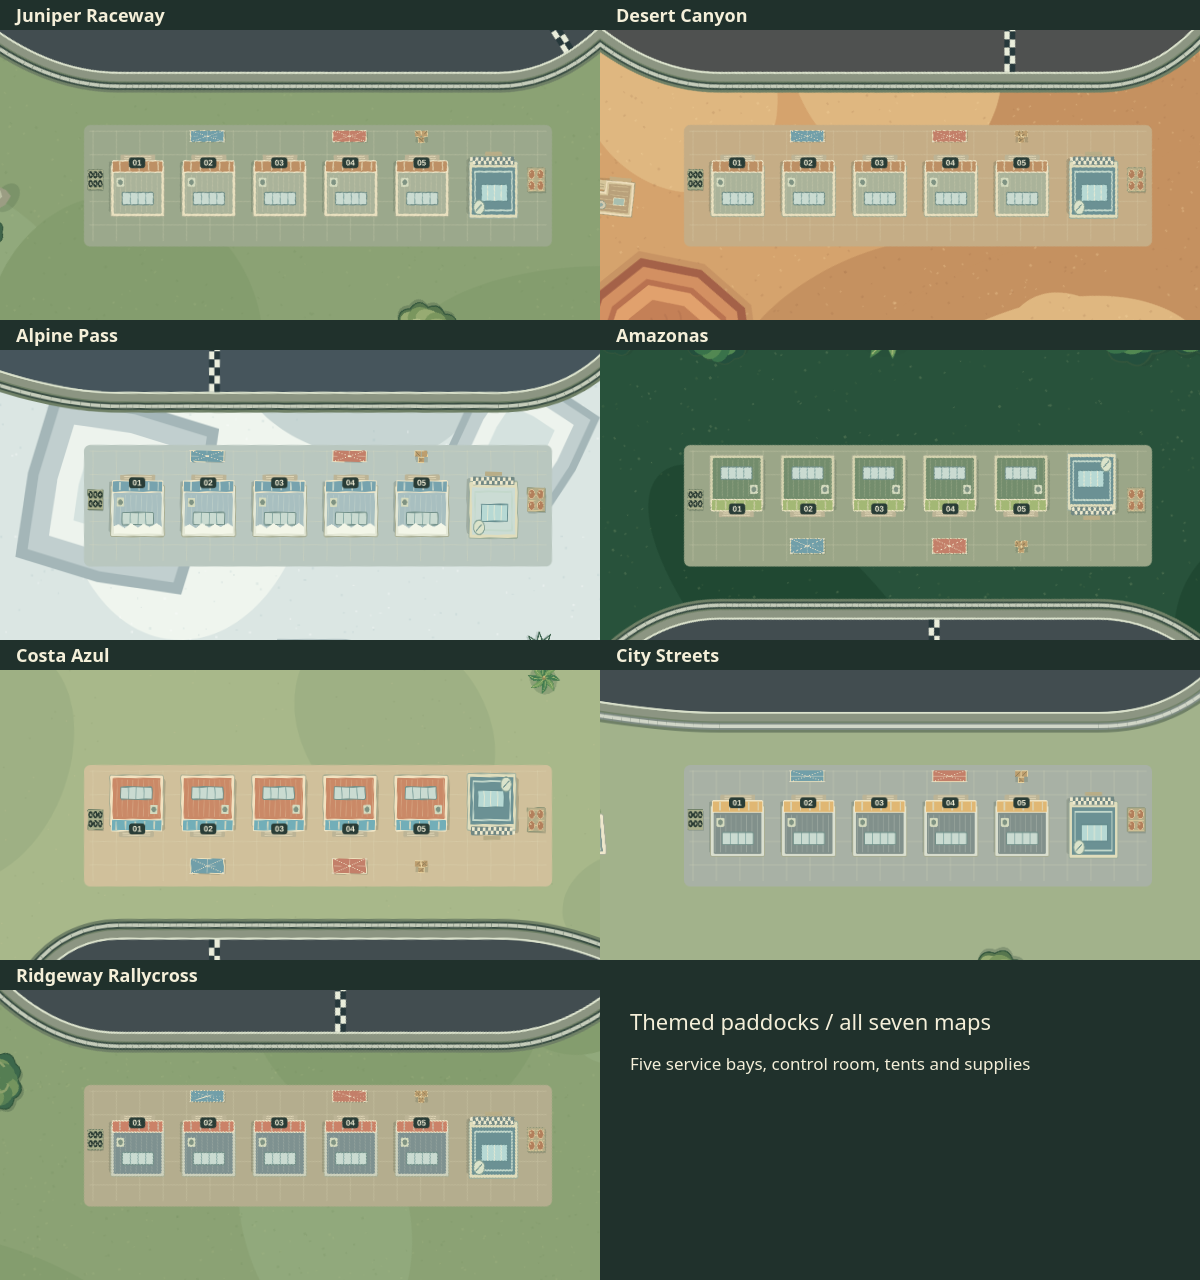
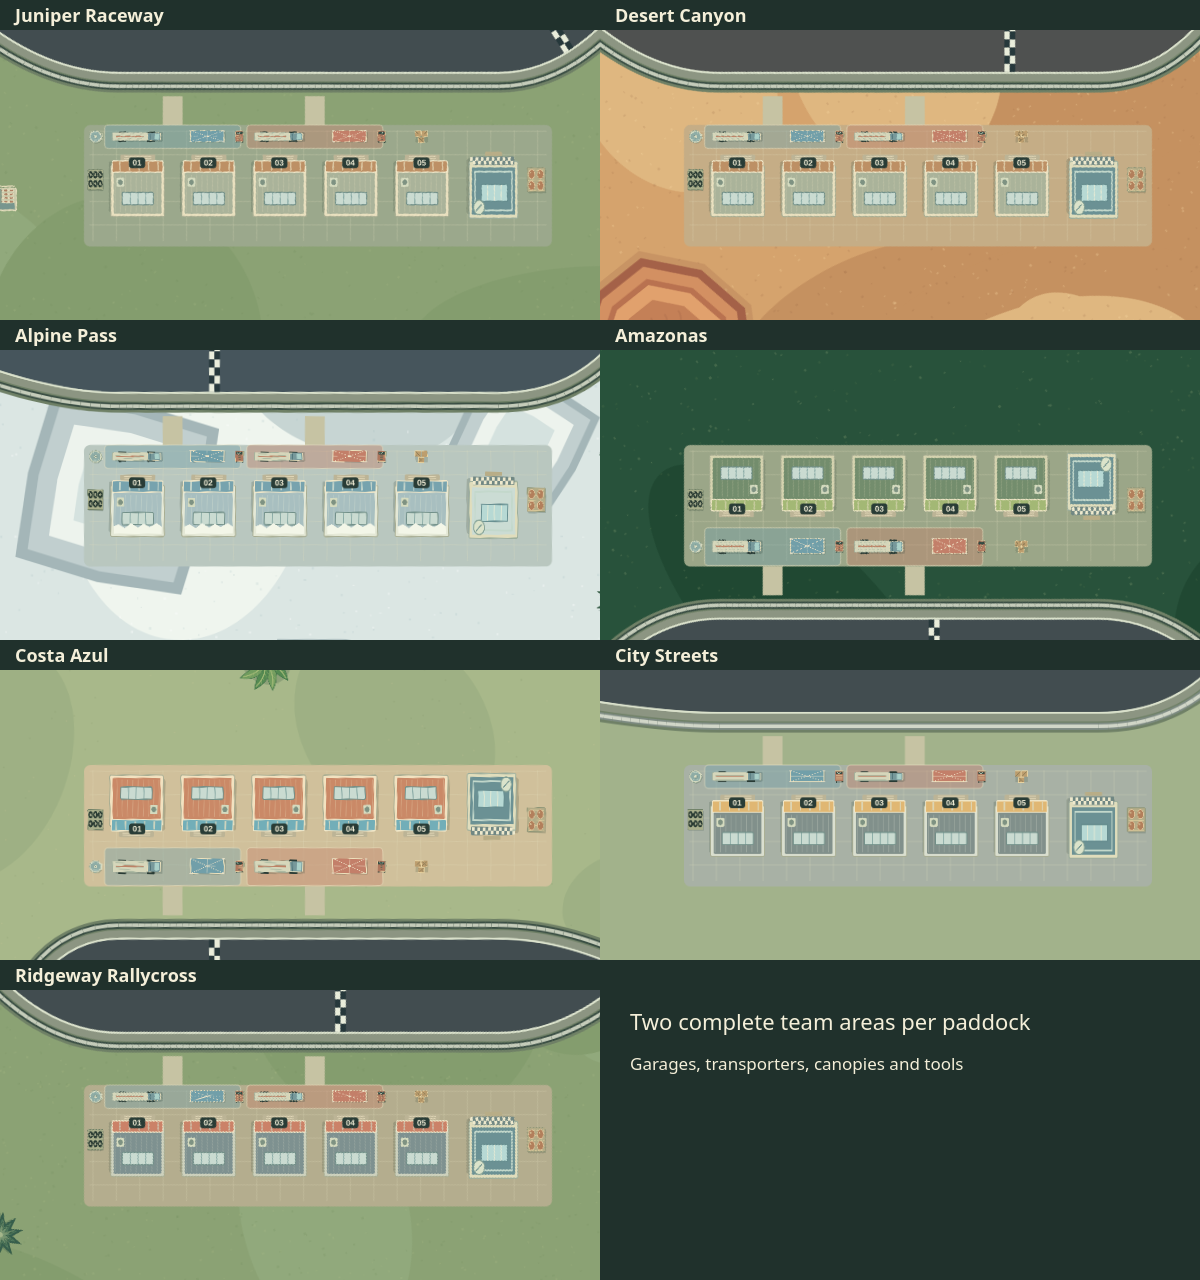
add(scenery): connect buildings and group paddock teams

diff --git a/main.js b/main.js
@@ -443,17 +443,27 @@ function drawSceneryAsset(c,key,x,y,w,h,angle=0){
 }
 function paddockAssetLayout(){
   const theme={juniper:'cream',canyon:'cream',alpine:'alpine',amazonas:'jungle',coast:'coastal',city:'city',rallycross:'industrial'}[activeMap.id],front=paddock.side===1?-1:1,y=front<0?18:-5,angle=front<0?Math.PI:0,props=[];
-  for(let i=0;i<5;i++)props.push({key:'garage-'+theme,x:-181+i*79,y,w:68,h:80,angle,bay:i+1});
+  for(let i=0;i<5;i++)props.push({key:'garage-'+theme,x:-181+i*79,y,w:68,h:80,angle,bay:i+1,team:i<2?'blue':i<4?'red':null});
   props.push({key:activeMap.id==='alpine'?'control-room-snow':'control-room',x:214,y,w:64,h:86,angle});
   props.push({key:'tyre-rack',x:-227,y:12,w:20,h:32,angle:0},{key:'fuel-store',x:263,y:12,w:24,h:36,angle:0});
   const forecourt=front<0?-37:63;
-  props.push({key:'service-tent-blue',x:-102,y:forecourt,w:44,h:front<0?18:24,angle:0},{key:'service-tent-red',x:56,y:forecourt,w:44,h:front<0?18:24,angle:0},{key:'wood-crates',x:135,y:forecourt,w:17,h:17,angle:0},{key:'tool-trolley',x:-23,y:forecourt,w:17,h:20,angle:0},{key:'water-tank',x:-227,y:forecourt,w:18,h:18,angle:0});
+  for(const [team,x,tent]of [['blue',-181,-102],['red',-23,56]]){
+    props.push({key:'service-transporter',x,y:forecourt,w:64,h:front<0?20:28,angle:0,team},{key:'service-tent-'+team,x:tent,y:forecourt,w:44,h:front<0?18:24,angle:0,team},{key:'tool-trolley',x:tent+35,y:forecourt,w:14,h:18,angle:0,team});
+  }
+  props.push({key:'wood-crates',x:135,y:forecourt,w:17,h:17,angle:0},{key:'water-tank',x:-227,y:forecourt,w:18,h:18,angle:0});
   return props;
+}
+function paddockTeamLayout(){
+  const front=paddock.side===1?-37:63;
+  return [{id:'blue',x:-141.5,y:front,w:151,h:paddock.side===1?26:42,color:'#719fa9'},{id:'red',x:16.5,y:front,w:151,h:paddock.side===1?26:42,color:'#c37f69'}];
 }
 function paintPaddock(c){
   const theme={juniper:'#9ba88c',canyon:'#c5ad86',alpine:'#b9c7bf',amazonas:'#9ba688',coast:'#d0c09b',city:'#a8b1a5',rallycross:'#b4ad8e'}[activeMap.id];
-  c.save();c.translate(paddock.x,paddock.y);c.rotate(Math.atan2(paddock.ty,paddock.tx));c.fillStyle=theme;roundedRect(c,-240,-50,520,135,7);c.fill();
+  c.save();c.translate(paddock.x,paddock.y);c.rotate(Math.atan2(paddock.ty,paddock.tx));
+  for(const team of paddockTeamLayout()){c.strokeStyle='#c6c3a3';c.lineWidth=22;c.lineCap='butt';c.beginPath();c.moveTo(team.x,team.y);c.lineTo(team.x,paddock.side===1?-82:117);c.stroke();}
+  c.fillStyle=theme;roundedRect(c,-240,-50,520,135,7);c.fill();
   c.strokeStyle='#e8e3c03d';c.lineWidth=1;for(let x=-230;x<275;x+=26){c.beginPath();c.moveTo(x,-44);c.lineTo(x,79);c.stroke();}for(let y=-43;y<80;y+=26){c.beginPath();c.moveTo(-234,y);c.lineTo(274,y);c.stroke();}
+  for(const team of paddockTeamLayout()){c.fillStyle=team.color+'66';roundedRect(c,team.x-team.w/2,team.y-team.h/2,team.w,team.h,4);c.fill();c.strokeStyle='#eee5c48c';c.lineWidth=1;c.stroke();}
   for(const prop of paddockAssetLayout()){
     if(!drawSceneryAsset(c,prop.key,prop.x,prop.y,prop.w,prop.h,prop.angle)){c.fillStyle='#d1c9a9';roundedRect(c,prop.x-prop.w/2,prop.y-prop.h/2,prop.w,prop.h,3);c.fill();c.strokeStyle='#8fa38c';c.lineWidth=2;c.stroke();}
     if(prop.bay){const labelY=prop.y+(paddock.side===1?-26:26);c.fillStyle='#293c36';roundedRect(c,prop.x-9,labelY-6,18,12,3);c.fill();c.fillStyle='#f3efd8';c.font='bold 9px Arial';c.textAlign='center';c.fillText(String(prop.bay).padStart(2,'0'),prop.x,labelY+3);}
@@ -961,10 +971,11 @@ function drawCoastWaves(c){
 // Place large sites first, then details, then trees. Every object reserves its
 // complete rotated sprite footprint, including the shadow, before anything draws.
 const SCENERY_LAYERS={ground:0,props:1,structures:2,canopy:3};
-const sceneryDetails=[],sceneryBuildings=[],sceneryTrees=[],sceneryScene=[];
+const sceneryDetails=[],sceneryBuildings=[],sceneryTrees=[],sceneryScene=[],sceneryAccess=[];
 function reserveScenery(prop,target){
   if(!sceneryClear(prop.x,prop.y,prop.radius))return false;
   if(sceneryScene.some(other=>(prop.x-other.x)**2+(prop.y-other.y)**2<(prop.radius+other.radius+8)**2))return false;
+  if(sceneryAccess.some(access=>sceneryAccessDistance(access,prop.x,prop.y)<prop.radius+access.width/2+8))return false;
   target.push(prop);sceneryScene.push(prop);return true;
 }
 function cityParkClear(x,y,radius){
@@ -975,10 +986,10 @@ function cityParkClear(x,y,radius){
   if(Math.hypot(dx,y-Math.max(120,Math.min(660,y)))<radius+12)return false;
   return Math.hypot(x-190,y-775)>radius+95;
 }
-function sceneryClear(x,y,radius){
-  const n=nearest(x,y);if(n.distance<widthAt('wall',n.progress)+radius+24||withinPitDistance(x,y,pitLane.wall+radius+24))return false;
+function sceneryClear(x,y,radius,margin=24){
+  const n=nearest(x,y);if(n.distance<widthAt('wall',n.progress)+radius+margin||withinPitDistance(x,y,pitLane.wall+radius+margin))return false;
   const dx=x-paddock.x,dy=y-paddock.y,px=dx*paddock.tx+dy*paddock.ty,py=-dx*paddock.ty+dy*paddock.tx;
-  if(px>-265-radius&&px<305+radius&&py>-75-radius&&py<125+radius)return false;
+  if(px>-265-radius&&px<305+radius&&py>-100-radius&&py<150+radius)return false;
   if(activeMap.id==='amazonas'){const m=monkeyPosition();if(amazonRiverDistance(x,y)<125+radius||Math.hypot(x-m.x,y-(m.y-20))<100+radius)return false;}
   if(activeMap.id==='city'&&!cityParkClear(x,y,radius))return false;
   if(activeMap.id==='coast'&&(coastLandDistance(x,y)<90+radius||Math.hypot(x-coast.lighthouse.x,y-coast.lighthouse.y)<130+radius))return false;
@@ -1011,7 +1022,7 @@ function sceneryDetailLayer(kind){
   return SCENERY_LAYERS.props;
 }
 function buildSceneryDetails(){
-  sceneryDetails.length=0;sceneryBuildings.length=0;sceneryTrees.length=0;sceneryScene.length=0;
+  sceneryDetails.length=0;sceneryBuildings.length=0;sceneryTrees.length=0;sceneryScene.length=0;sceneryAccess.length=0;
   buildSceneryBuildings();
   const rand=seededRandom(5600+Object.keys(MAPS).indexOf(activeMap.id)*271),kinds={juniper:['rock-moss','log','fern','flowers','cabin','picnic','shed-garden','greenhouse','spectator-stand'],canyon:['rock','cactus','drygrass','hut','water-tank','service-transporter'],alpine:['rock','pine','snowdrift','cabin','shed-garden','spectator-stand'],amazonas:['fern','flowers','log','rock-moss','hut','picnic'],rallycross:['tires','canopy','service-transporter','rock','tool-trolley','spectator-stand'],coast:['umbrella','flowers','rock','villa','bench','cafe-terrace','garden-bed'],city:['citybuilding','streetlamp','parking','flowers','bench','garden-bed','greenhouse','cafe-terrace']}[activeMap.id];
   for(let i=0;i<360;i++){
@@ -1021,12 +1032,73 @@ function buildSceneryDetails(){
     if(activeMap.id==='city'&&['citybuilding','greenhouse','cafe-terrace'].includes(kind)&&x>-400-radius&&x<780+radius&&y>-110-radius&&y<870+radius)continue;
     reserveScenery({type:'detail',x,y,size,radius,angle,kind,seed,layer},sceneryDetails);
   }
+  buildSceneryAccess();
   buildSceneryTrees();
   sceneryScene.sort((a,b)=>a.layer-b.layer||a.y-b.y||a.x-b.x);
 }
+function sceneryAccessDistance(access,x,y){
+  let distance=Infinity;
+  for(let i=1;i<access.points.length;i++){
+    const a=access.points[i-1],b=access.points[i],dx=b.x-a.x,dy=b.y-a.y,len2=dx*dx+dy*dy,t=len2?clamp(((x-a.x)*dx+(y-a.y)*dy)/len2,0,1):0;
+    distance=Math.min(distance,Math.hypot(x-a.x-dx*t,y-a.y-dy*t));
+  }
+  return distance;
+}
+function sceneryEntrance(site){
+  if(site.type==='building'){
+    if(site.kind==='home')return {x:site.x-18,y:site.y-18,w:site.w+12,h:site.h+12,angle:0};
+    return {x:site.x,y:site.y,w:site.w+(site.kind==='coast'?8:12),h:site.h+(site.kind==='coast'?8:12),angle:site.angle};
+  }
+  if(!['cabin','hut','villa','citybuilding','greenhouse','shed-garden','cafe-terrace'].includes(site.kind))return null;
+  const w=site.kind==='villa'?site.size*1.2+8:site.kind==='citybuilding'?site.size*1.5+12:site.size*1.6,h=site.kind==='villa'?site.size*.9+8:site.kind==='citybuilding'?site.size*1.2+12:site.size*1.4;
+  return {x:site.x,y:site.y,w,h,angle:site.angle};
+}
+function buildSceneryAccess(){
+  const gardenTrees=sceneryBuildings.filter(site=>site.kind==='home').map(site=>({x:site.x+60,y:site.y+55,radius:36*.85}));
+  for(const owner of [...sceneryBuildings,...sceneryDetails]){
+    const entrance=sceneryEntrance(owner);if(!entrance)continue;
+    const width=activeMap.id==='city'&&owner.kind==='home'?18:owner.kind==='office'?22:10,half=width/2,angle=entrance.angle,cos=Math.cos(angle),sin=Math.sin(angle);
+    const world=(x,y)=>({x:entrance.x+cos*x-sin*y,y:entrance.y+sin*x+cos*y}),local=p=>({x:(p.x-entrance.x)*cos+(p.y-entrance.y)*sin,y:-(p.x-entrance.x)*sin+(p.y-entrance.y)*cos});
+    const n=nearest(owner.x,owner.y),start=track[n.i],next=track[(n.i+1)%track.length],s=start.s+n.t*Math.hypot(next.x-start.x,next.y-start.y);
+    let connected=false;
+    for(const offset of [0,70,-70,140,-140]){
+      if(connected)break;
+      const p=pointOnTrack(s+offset),distance=widthAt('wall',p.progress)+half+10,end={x:p.x-p.ty*n.side*distance,y:p.y+p.tx*n.side*distance},target=local(end),front=entrance.h/2+16;
+      if(Math.hypot(end.x-entrance.x,end.y-entrance.y)>520)continue;
+      for(const side of [target.x<0?-1:1,target.x<0?1:-1]){
+        const points=[world(0,entrance.h*.44),world(0,front)];
+        if(target.y>=front)points.push(world(target.x,front));
+        else{const edge=side*(entrance.w/2+half+14);points.push(world(edge,front),world(edge,target.y));}
+        points.push(end);
+        const access={owner,width,points,kind:activeMap.id==='city'?'paved':'gravel',layer:SCENERY_LAYERS.ground};
+        // Check the entire corridor, including corners, before reserving it.
+        let clear=true;
+        for(let i=1;i<points.length&&clear;i++){
+          const a=points[i-1],b=points[i],steps=Math.max(1,Math.ceil(Math.hypot(b.x-a.x,b.y-a.y)/8));
+          for(let j=0;j<=steps;j++){
+            const x=lerpTo(a.x,b.x,j/steps),y=lerpTo(a.y,b.y,j/steps);
+            if(gardenTrees.some(tree=>Math.hypot(x-tree.x,y-tree.y)<tree.radius+half+6)||!sceneryClear(x,y,half+2,6)||sceneryScene.some(prop=>prop!==owner&&Math.hypot(x-prop.x,y-prop.y)<prop.radius+half+6)){clear=false;break;}
+            // A route may touch its porch, but must never cut across its roof.
+            const q=local({x,y});if(Math.abs(q.x)<entrance.w/2+half&&q.y<entrance.h*.4&&q.y>-entrance.h/2-half){clear=false;break;}
+          }
+        }
+        if(clear){sceneryAccess.push(access);connected=true;break;}
+      }
+    }
+  }
+}
+function paintSceneryAccess(c){
+  c.save();c.lineJoin='round';c.lineCap='round';
+  for(const access of sceneryAccess){
+    for(const [width,color]of [[access.width+4,access.kind==='paved'?'#d3d4bb':'#a8a080'],[access.width,access.kind==='paved'?'#a3aca1':'#c9b991']]){
+      c.beginPath();access.points.forEach((p,i)=>i?c.lineTo(p.x,p.y):c.moveTo(p.x,p.y));c.strokeStyle=color;c.lineWidth=width;c.stroke();
+    }
+  }
+  c.restore();
+}
 function buildSceneryTrees(){
   const id=activeMap.id,rand=seededRandom(7300+Object.keys(MAPS).indexOf(id)*113),keys={juniper:['tree-oak','tree-birch','tree-elm','tree-pine','tree-willow'],canyon:['tree-cactus','tree-acacia'],alpine:['tree-pine-snow','tree-pine-snow','tree-pine'],amazonas:['tree-jungle','tree-jungle','tree-fan-palm'],coast:['tree-palm','tree-fan-palm'],city:['tree-birch','tree-elm','tree-willow'],rallycross:['tree-oak','tree-birch','tree-pine']}[id];
-  for(let i=0;i<(id==='amazonas'?2800:1100);i++){
+  for(let i=0;i<(id==='amazonas'?2800:id==='city'?1800:1100);i++){
     const x=rand()*worldBounds.width+worldBounds.x,y=rand()*worldBounds.height+worldBounds.y,size=id==='amazonas'?65+rand()*65:35+rand()*48,key=keys[Math.floor(rand()*keys.length)],angle=rand()*Math.PI*2;
     if(id==='city'&&y<-100)continue;
     if(id==='amazonas'&&Math.abs(x+500)<180&&Math.abs(y+220)<110)continue;
@@ -1039,6 +1111,7 @@ function paintSceneryGround(c){
     if(kind==='home'){c.fillStyle=site.seed%2?'#b4bd91':'#98ae81';roundedRect(c,x-96,y-92,192,184,7);c.fill();c.strokeStyle='#d9ddbf';c.lineWidth=3;c.stroke();}
     else if(kind==='office'){c.fillStyle='#b5bcb03d';roundedRect(c,x-w*.7,y-h*.7,w*1.4,h*1.4,8);c.fill();}
   }
+  paintSceneryAccess(c);
 }
 function paintSceneryScene(c){
   // The sorted list is also the actual draw order: ground, props, roofs, crowns.

diff --git a/README.md b/README.md
@@ -69,6 +69,16 @@ then small props and trees fill the remaining space without overlapping.
 Ground details render below props, rooftops, and tree canopies. City park
 paths and the fountain stay clear, as does the monkey’s perch in Amazonas.
 
+Homes, cabins, village buildings, and cafés have paved driveways or gravel
+access paths where a clear route to the roadside verge is available. Paths
+start at the frontage, go around roofs, and reserve space before trees are
+placed. These are scenery paths; the circuit and drivable pit routes keep
+their existing layout.
+
+Each paddock has two color-matched team areas with neighboring garages, a
+transporter, canopy, and tool trolley. Marked service pads and short access
+walks tie the equipment together; shared supplies sit at the apron edges.
+
 The pack loads once into a reusable raster cache. Static scenery remains
 baked into the world canvas, so the new detail does not add per-frame SVG
 rendering. Regenerate the assets with `python3 tools/build-scenery-assets.py`.
